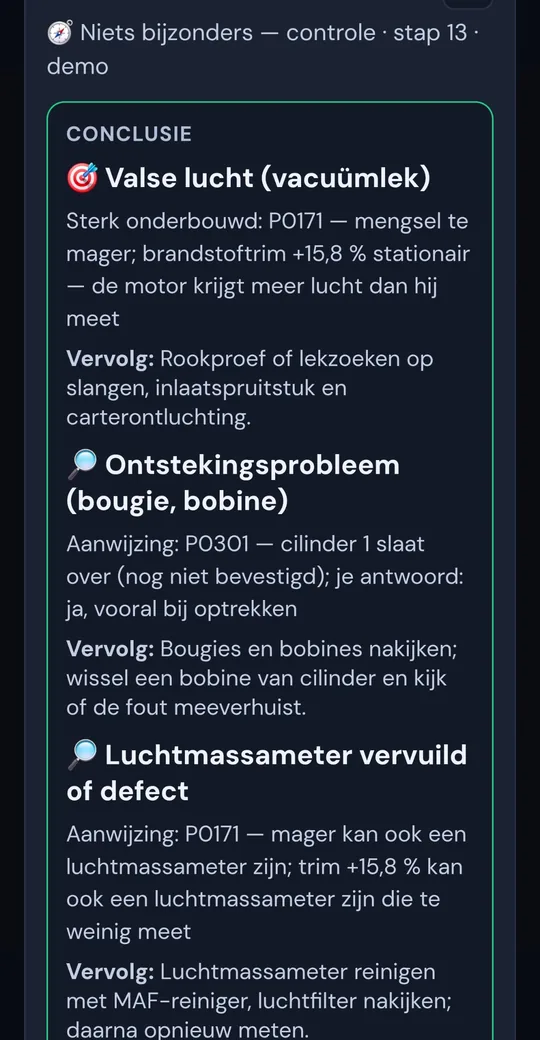
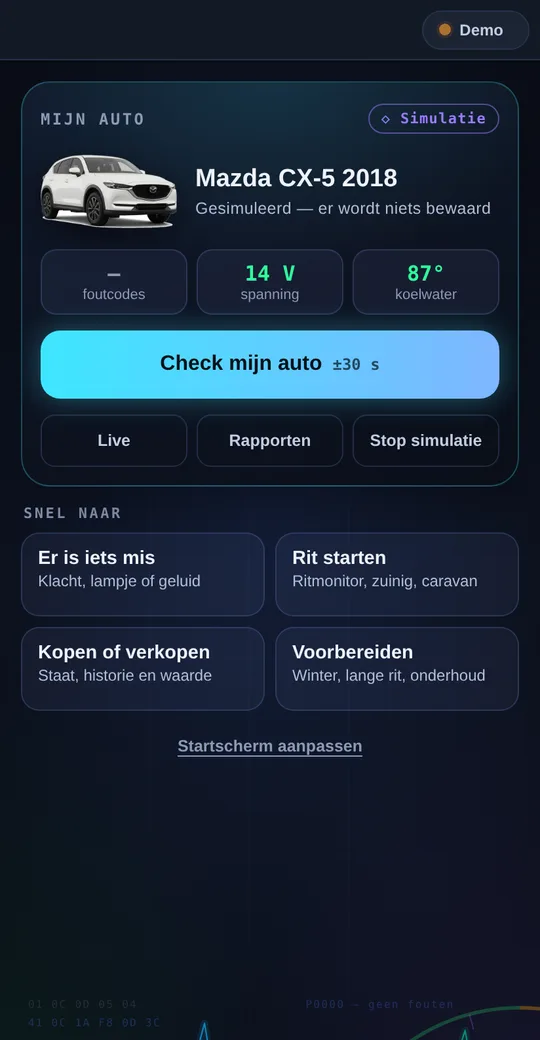
Website: echte app-schermen als galerij, adaptertekst bij (BLE werkt, WiFi niet)
Claude-Session: https://claude.ai/code/session_01UqhcqoJv895NeWBr2GRvpm

diff --git a/index.html b/index.html
@@ -30,7 +30,7 @@
 {"@type":"MobileApplication","name":"PidLane: OBD2 & AI Diagnose","operatingSystem":"Android","applicationCategory":"UtilitiesApplication","inLanguage":"nl","url":"https://play.google.com/store/apps/details?id=nl.pidlane.app","installUrl":"https://play.google.com/store/apps/details?id=nl.pidlane.app","publisher":{"@id":"https://pidlane.nl/#org"},"offers":{"@type":"Offer","price":"0","priceCurrency":"EUR"},"screenshot":["https://pidlane.nl/img/app-conclusie.webp","https://pidlane.nl/img/app-onderzoek.webp","https://pidlane.nl/img/app-live.webp"]},
 {"@type":"FAQPage","mainEntity":[
 {"@type":"Question","name":"Heeft de expert die meekijkt een adapter nodig?","acceptedAnswer":{"@type":"Answer","text":"Nee. Alleen wie bij de auto staat heeft een adapter. De expert opent PidLane, tikt op Ik ben de expert en typt de code, of opent de link. Hij kan meekijken en foutcodes opvragen, maar niets aan de auto veranderen."}},
-{"@type":"Question","name":"Welke adapter heb ik nodig?","acceptedAnswer":{"@type":"Answer","text":"Een OBD2-adapter met Bluetooth Classic (ELM327 of STN, bijvoorbeeld OBDLink MX+ of Vgate vLinker MC+). Adapters die alleen Bluetooth Low Energy kennen werken niet. Aan een laptop kan het ook via USB, in Chrome."}},
+{"@type":"Question","name":"Welke adapter heb ik nodig?","acceptedAnswer":{"@type":"Answer","text":"Een OBD2-adapter met Bluetooth: Bluetooth Classic (ELM327 of STN, bijvoorbeeld OBDLink MX+ of Vgate vLinker MC+) of Bluetooth Low Energy (bijvoorbeeld Vgate iCar Pro, Veepeak BLE of LELink). Een WiFi-adapter werkt niet. Aan een laptop kan het ook via USB, in Chrome."}},
 {"@type":"Question","name":"Werkt het met mijn auto?","acceptedAnswer":{"@type":"Answer","text":"Vrijwel elke benzineauto vanaf 2001 en diesel vanaf 2004 in Europa heeft een OBD2-poort. Welke sensoren je te zien krijgt verschilt per auto; PidLane laat alleen zien wat jouw auto echt levert."}},
 {"@type":"Question","name":"Werkt het op een iPhone?","acceptedAnswer":{"@type":"Answer","text":"Het uitlezen van de auto nog niet: daarvoor is een Android-telefoon nodig, met de app of met Chrome. Meekijken op afstand, de kenteken-check en foutcodes opzoeken werken op elk toestel met een browser."}},
 {"@type":"Question","name":"Ziet Hyperlane er op elke telefoon zo uit?","acceptedAnswer":{"@type":"Answer","text":"Op elke Android-telefoon met WebGL, en dat zijn ze vrijwel allemaal. Zonder WebGL krijg je een rustiger verloop in dezelfde kleuren. Wie in de instellingen van de telefoon minder beweging kiest, krijgt een stilstaand beeld."}},
@@ -352,6 +352,16 @@
   </div>
 </section>
 
+<!-- ═════ De app zoals hij nu is (schermen uit de demomodus, 15-11-2026) ═════ -->
+<section class="sec" id="schermen">
+  <div class="wrap">
+    <p class="kick rv"><b>Zo ziet het eruit</b></p>
+    <h2 class="d2 rv" style="margin:34px 0 clamp(28px,4vw,48px)">De echte app. <i>Geen mockup.</i></h2>
+    <div class="rv" style="display:flex;gap:16px;overflow-x:auto;scroll-snap-type:x mandatory;padding-bottom:12px;-webkit-overflow-scrolling:touch"><figure style="flex:0 0 clamp(200px,24vw,270px);margin:0;scroll-snap-align:start"><img src="img/app/meekijken.webp" width="540" height="960" alt="PidLane-scherm: Je monteur kijkt live mee" loading="lazy" style="width:100%;height:auto;border-radius:18px;display:block"></figure><figure style="flex:0 0 clamp(200px,24vw,270px);margin:0;scroll-snap-align:start"><img src="img/app/foutcodes.webp" width="540" height="960" alt="PidLane-scherm: Lampje aan? Weet het in 30 seconden" loading="lazy" style="width:100%;height:auto;border-radius:18px;display:block"></figure><figure style="flex:0 0 clamp(200px,24vw,270px);margin:0;scroll-snap-align:start"><img src="img/app/standen.webp" width="540" height="960" alt="PidLane-scherm: Kies je stand: Eco, Sport of Cruise" loading="lazy" style="width:100%;height:auto;border-radius:18px;display:block"></figure><figure style="flex:0 0 clamp(200px,24vw,270px);margin:0;scroll-snap-align:start"><img src="img/app/slim.webp" width="540" height="960" alt="PidLane-scherm: Alleen wat er nu toe doet" loading="lazy" style="width:100%;height:auto;border-radius:18px;display:block"></figure><figure style="flex:0 0 clamp(200px,24vw,270px);margin:0;scroll-snap-align:start"><img src="img/app/grafiek.webp" width="540" height="960" alt="PidLane-scherm: Zie het verloop, niet één moment" loading="lazy" style="width:100%;height:auto;border-radius:18px;display:block"></figure><figure style="flex:0 0 clamp(200px,24vw,270px);margin:0;scroll-snap-align:start"><img src="img/app/accu.webp" width="540" height="960" alt="PidLane-scherm: Weet hoe je accu ervoor staat" loading="lazy" style="width:100%;height:auto;border-radius:18px;display:block"></figure><figure style="flex:0 0 clamp(200px,24vw,270px);margin:0;scroll-snap-align:start"><img src="img/app/ik-wil.webp" width="540" height="960" alt="PidLane-scherm: Kopen, verkopen of op reis: één tik" loading="lazy" style="width:100%;height:auto;border-radius:18px;display:block"></figure></div>
+    <p class="rv" style="margin-top:14px;opacity:.7;font-size:14px">Opgenomen in de demomodus: een gesimuleerde Mazda CX-5. Probeer hem zelf op <a href="https://app.pidlane.nl" target="_blank" rel="noopener">app.pidlane.nl</a>, zonder adapter.</p>
+  </div>
+</section>
+
 <!-- ═════ Start + vragen ═════ -->
 <section class="sec paper" id="zo-begin-je">
   <div class="wrap">
@@ -359,14 +369,14 @@
     <h2 class="d2 rv" style="margin:34px 0 clamp(40px,5vw,64px)">Drie stappen. <i>Vandaag nog.</i></h2>
     <div class="start">
       <div class="rv"><span class="mono"><span>01</span><span>± 1 min</span></span><h3>Installeer de app</h3><p>Via <a href="https://play.google.com/store/apps/details?id=nl.pidlane.app" target="_blank" rel="noopener">Google Play</a>, of open <a href="https://app.pidlane.nl">app.pidlane.nl</a> in Chrome. Geen adapter? Kies <b>Simuleer verbinding</b>.</p></div>
-      <div class="rv"><span class="mono"><span>02</span><span>± 1 min</span></span><h3>Adapter in de poort</h3><p>Een OBD2-adapter met Bluetooth Classic (ELM327 of STN). De poort zit meestal onder het stuur. Contact aan, koppelen, klaar.</p></div>
+      <div class="rv"><span class="mono"><span>02</span><span>± 1 min</span></span><h3>Adapter in de poort</h3><p>Een Bluetooth OBD2-adapter (ELM327, STN of BLE; geen WiFi). De poort zit meestal onder het stuur. Contact aan, koppelen, klaar.</p></div>
       <div class="rv"><span class="mono"><span>03</span><span>± 2–4 min</span></span><h3>Rijden of laten zoeken</h3><p>Zet Hyperlane aan, laat PidLane zoeken naar de oorzaak, of tik op <b>Laat iemand meekijken</b>.</p></div>
     </div>
 
     <div class="twee" style="margin-top:clamp(80px,10vw,130px)" id="vragen">
       <div><p class="kick rv"><b>Vragen</b></p><h2 class="d2 rv" style="margin-top:34px">Goede <i>vragen.</i></h2></div>
       <div class="faq rv">
-        <details><summary>Welke adapter heb ik nodig?</summary><p>Een OBD2-adapter met Bluetooth Classic (ELM327 of STN, bijvoorbeeld OBDLink MX+ of Vgate vLinker MC+). Adapters die alleen Bluetooth Low Energy kennen werken niet. Aan een laptop kan het ook via USB, in Chrome.</p></details>
+        <details><summary>Welke adapter heb ik nodig?</summary><p>Een OBD2-adapter met Bluetooth: Bluetooth Classic (ELM327 of STN, bijvoorbeeld OBDLink MX+ of Vgate vLinker MC+) of Bluetooth Low Energy (bijvoorbeeld Vgate iCar Pro, Veepeak BLE of LELink). Een WiFi-adapter werkt niet. Aan een laptop kan het ook via USB, in Chrome.</p></details>
         <details><summary>Werkt het met mijn auto?</summary><p>Vrijwel elke benzineauto vanaf 2001 en diesel vanaf 2004 in Europa heeft een OBD2-poort. Welke sensoren je te zien krijgt verschilt per auto; PidLane laat alleen zien wat jouw auto echt levert.</p></details>
         <details><summary>Ziet Hyperlane er op elke telefoon zo uit?</summary><p>Op elke Android-telefoon met WebGL, en dat zijn ze vrijwel allemaal. Zonder WebGL krijg je een rustiger verloop in dezelfde kleuren. Wie in de instellingen van de telefoon minder beweging kiest, krijgt een stilstaand beeld.</p></details>
         <details><summary>Leest hij de bandenspanning van elke auto?</summary><p>Nee. Alleen van auto's die die via OBD doorgeven, zoals Mazda. De winterkaart met banden- en sproeieradvies werkt op elke auto, want die rust op je profiel en de verwachting.</p></details>
